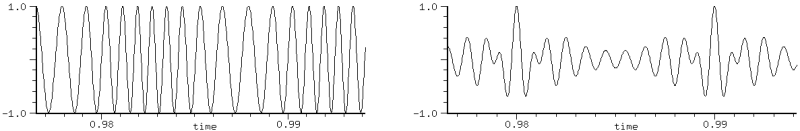
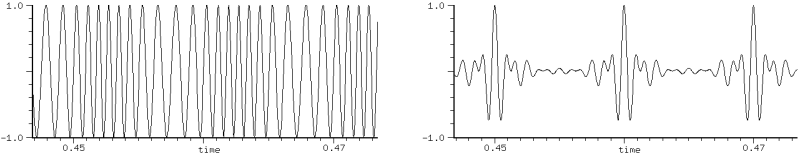
bugs

diff --git a/fm.html b/fm.html
@@ -529,7 +529,7 @@ advantages whatsoever").
 If we add cosines at the amplitudes given by the Bessel functions (using additive synthesis to
 produce the same magnitude spectrum as FM produces), we get a very different waveform.  I think the
 FM version sounds richer and, far more importantly, louder (the FM RMS value here is 0.707, whereas
-the sum of cosines RMS value is 0.296):
+the sum of cosines RMS value is 0.243 since we scaled its original peak amplitude of 2.89 to 1.0):
 <p>
 
 <table border=0 hspace=100>
@@ -540,6 +540,12 @@ the sum of cosines RMS value is 0.296):
 <center>FM waveform (index: 3.0) vs sum of cosines with the same component amplitudes</center>
 </td></tr>
 </table>
+
+<p>This strikes me as a minor miracle.  I think FM gives the minimum peak amplitude that its
+sidebands could have produced, given any set of initial phases.
+</p>
+
+
 
 <!--
 (define (fm-it freq index)
@@ -553,14 +559,14 @@ the sum of cosines RMS value is 0.296):
 	   (j 0 (+ j 3)))
 	  ((> i n))
 	(vct-set! cur-phases j (+ 10 i))
-	(vct-set! cur-phases (+ j 1) (bes-jn i index))
+	(vct-set! cur-phases (+ j 1) (abs (bes-jn i index)))
 	(vct-set! cur-phases (+ j 2) (/ pi 2)))
 
       (do ((i 1 (+ i 1))
 	   (j (* (+ n 1) 3) (+ j 3)))
 	  ((> i n))
 	(vct-set! cur-phases j (- 10 i))
-	(vct-set! cur-phases (+ j 1) (bes-jn i index))
+	(vct-set! cur-phases (+ j 1) (abs (bes-jn i index)))
 	(vct-set! cur-phases (+ j 2) (/ pi 2)))
 
       (let ((gen (make-polyoid freq cur-phases)))
@@ -569,6 +575,39 @@ the sum of cosines RMS value is 0.296):
 	   (do ((i 0 (1+ i)))
 	       ((= i 88200))
 	     (outa i (polyoid gen 0.0)))))))))
+
+(with-sound (:output "test1.snd")
+  (let* ((cgen (make-oscil 1000))
+         (mgen (make-oscil 100))
+	 (index (hz->radians (* 3 100))))
+    (do ((i 0 (1+ i)))
+	((= i 44100))
+      (outa i (oscil cgen (* index (oscil mgen)))))))
+
+
+(define (all-fm freq index tries)
+  (let* ((incr (/ (* 2 pi) tries))
+	 (max-rms 0.0)
+	 (min-rms 1.0)
+	 (fm-index (hz->radians (* index freq))))
+
+    (with-sound (:clipped #f)
+      (do ((try 0 (1+ try))
+	   (mod-phase 0.0 (+ mod-phase incr)))
+	  ((= try tries))
+	(let* ((cargen (make-oscil (* freq 10) (/ pi 2))) ; or 0 phase
+	       (modgen (make-oscil freq mod-phase))
+	       (samps 44100)
+	       (sum 0.0))
+	  (do ((samp 0 (1+ samp)))
+	      ((= samp samps))
+	    (let ((val (oscil cargen (* fm-index (oscil modgen)))))
+	      (set! sum (+ sum (* val val)))))
+	  (let ((rms (sqrt (/ sum samps))))
+	    (set! max-rms (max max-rms rms))
+	    (set! min-rms (min min-rms rms))
+	    (outa try rms)))))
+    (list min-rms max-rms)))
 -->
 
 

diff --git a/snd-test.rb b/snd-test.rb
@@ -3863,6 +3863,7 @@ end
 
 def test124
   ind = new_sound("tmp.snd", Mus_riff, Mus_l24int, 22050, 1, :size, 100000)
+  old_selection_creates_region = selection_creates_region()
   x = -0.5
   incr = 1.0 / frames
   map_channel(lambda do |n|
@@ -3888,13 +3889,14 @@ def test124
                          fneq(val, n)
                        end, 0, 100000, ind1)
     if array?(err)
-      snd_display("%s (%s) selection not saved correctly? %s", df, ht, err)
+      snd_display("%s (%s) region not saved correctly? %s", df, ht, err)
     end
     close_sound(ind1)
   end
   delete_file("tmp1.snd")
   close_sound(ind)
   delete_file("tmp.snd")
+  set_selection_creates_region(old_selection_creates_region)
   ind = new_sound("tmp.snd", Mus_next, Mus_bfloat, 22050, 1, :size, 10, :comment, false)
   map_channel($init_channel)
   env_channel([0.0, 0.0, 0.1, 0.1, 0.2, 0.2, 0.3, 0.3, 0.4, 0.4,
@@ -11408,9 +11410,6 @@ def analog_filter_tests
   end
   f1 = make_chebyshev_highpass(10, 0.4)
   vals = sweep2bins(f1, 10)
-  if ffneq(vals[0], 0.78) and ffneq(vals[0], 0.86) # 0.5710 here [ms]
-    snd_display("chebyshev hp 10 max: %s?", vals[0])
-  end
   if (not vequal(vals[1], vct(0, 0, 0, 0, 0, 0, 0, 0.297, 0.786, 0.677))) and
       (not vequal(vals[1], vct(0, 0, 0, 0, 0, 0, 0, 0.301, 0.788, 0.660))) and
       (not vequal(vals[1], vct(0, 0, 0, 0, 0, 0, 0, 0.322, 0.861, 0.724)))
@@ -16312,7 +16311,7 @@ def test098
   gen.frequency = 100.0
   snd_display("polyshape set_frequency: %s?", gen.frequency) if fneq(gen.frequency, 100.0)
   snd_display("mus_data polyshape: %s?", gen.data) unless vct?(gen.data)
-  if fneq(v0[1], 0.125) or fneq(v0[8], 0.843)
+  if fneq(v0[1], 0.992) or fneq(v0[8], 0.538)
     snd_display("polyshape output: %s?", v0)
   end
   gen0.data = make_vct(32)
@@ -16329,7 +16328,7 @@ def test098
   gen = make_polyshape(440.0, :partials, [1, 1])
   1100.times do |i|
     a = gen.phase
-    if fneq(val1 = sin(a), val2 = gen.run(1.0, 0.0))
+    if fneq(val1 = cos(a), val2 = gen.run(1.0, 0.0))
       snd_display("polyshaper [1, 1] %d: %s %s?", i, val1, val2)
       break
     end
@@ -16337,26 +16336,7 @@ def test098
   gen = make_polyshape(440.0) # check default for partials: [1, 1])
   1100.times do |i|
     a = gen.phase
-    if fneq(val1 = sin(a), val2 = gen.run(1.0, 0.0))
-      snd_display("polyshaper default [1, 1] %d: %s %s?", i, val1, val2)
-      break
-    end
-  end
-  gen = make_polyshape(440.0, :initial_phase, HALF_PI, :partials, [2, 1])
-  incr = (TWO_PI * 440.0) / mus_srate
-  a = 0.0
-  1100.times do |i|
-    if fneq(val1 = cos(2.0 * a), val2 = gen.run(1.0, 0.0))
-      snd_display("polyshaper [2, 1] %d: %s %s?", i, val1, val2)
-      break
-    end
-    a += incr
-  end
-  gen = make_polyshape(440.0, :initial_phase, HALF_PI, :partials, [1, 1, 2, 0.5])
-  incr = (TWO_PI * 440.0) / mus_srate
-  a = 0.0
-  1100.times do |i|
-    val1 = cos(a) + 0.5 * cos(2.0 * a)
+    val1 = cos(a)
     if fneq(val1, val2 = gen.run(1.0, 0.0))
       snd_display("polyshaper [1, 1, 2, 0.5] %d: %s %s?", i, val1, val2)
       break
@@ -16366,8 +16346,8 @@ def test098
   gen = make_polyshape(440.0, :partials, [1, 1])
   1100.times do |i|
     a = gen.phase
-    if fneq(val1 = 0.5 * sin(a), val2 = gen.run(0.5, 0.0))
-      snd_display("polyshaper [1, 1] 0.5 %d: %s %s?", i, val1, val2)
+    if fneq(val1 = 0.5 * cos(a), val2 = gen.run(0.5, 0.0))
+      snd_display("polyshaper default [1, 1] 0.5 %d: %s %s?", i, val1, val2)
       break
     end
   end
@@ -16380,11 +16360,11 @@ def test098
   a1 = 0.0
   a = 0.0
   400.times do |i|
-    if ((val1 = sin(a1)) - (val2 = polyshape(gen, 1.0, polyshape(gen1, 1.0)))).abs > 0.002
+    if ((val1 = cos(a1)) - (val2 = polyshape(gen, 1.0, polyshape(gen1, 1.0)))).abs > 0.002
       snd_display("polyshape fm: %d: %s %s?", i, val1, val2)
       break
     end
-    a1 += sin(a)
+    a1 += cos(a)
     a += (TWO_PI * 40.0) / 22050.0
   end
 end
@@ -33890,9 +33870,9 @@ def test23_b
     res1 = channel2vct(45, 10, ind, 0)
     res2 = channel2vct(210, 10, ind, 0)
     if (not vfffequal(res1,
-                      vct(-0.068,-0.059,-0.045,-0.028,-0.011, 0.005, 0.018, 0.028, 0.035,0.039))) or
+                      vct(-0.068,-0.064,-0.056,-0.041,-0.020, 0.007, 0.034, 0.059, 0.077,0.090))) or
         (not vfffequal(res2,
-                       vct(0.015, 0.014, 0.013, 0.011, 0.009, 0.007, 0.005, 0.003, 0.001, 0.000)))
+                       vct(0.016, 0.015, 0.013, 0.011, 0.008, 0.006, 0.004, 0.003, 0.001, 0.000)))
       snd_display("fm_violin with_sound:\n#\t%s\n#\t%s", res1, res2)
     end
     play_and_wait(0, ind)

diff --git a/hooks.rb b/hooks.rb
@@ -2,7 +2,7 @@
 
 # Author: Michael Scholz <mi-scholz@users.sourceforge.net>
 # Created: Sun Dec 21 13:48:01 CET 2003
-# Changed: Fri Jul 06 01:53:44 CEST 2007
+# Changed: Mon Jun 23 22:40:23 CEST 2008
 
 # Commentary:
 #
@@ -137,6 +137,7 @@ need a String or Symbol, not %s"
   $after_graph_hook             = Hook.new("$after_graph_hook", 2)
   $after_lisp_graph_hook        = Hook.new("$after_lisp_graph_hook", 2)
   $lisp_graph_hook              = Hook.new("$lisp_graph_hook", 2)
+  $time_graph_hook              = Hook.new("$time_graph_hook", 2)
   $before_transform_hook        = Hook.new("$before_transform_hook", 2)
   $mix_release_hook             = Hook.new("$mix_release_hook", 2)
   $save_hook                    = Hook.new("$save_hook", 2)
@@ -266,6 +267,7 @@ if defined? $after_graph_hook
   Snd_hooks = [$after_graph_hook,
                $after_lisp_graph_hook,
                $lisp_graph_hook,
+               $time_graph_hook,
                $before_transform_hook,
                $mix_release_hook,
                $save_hook,
